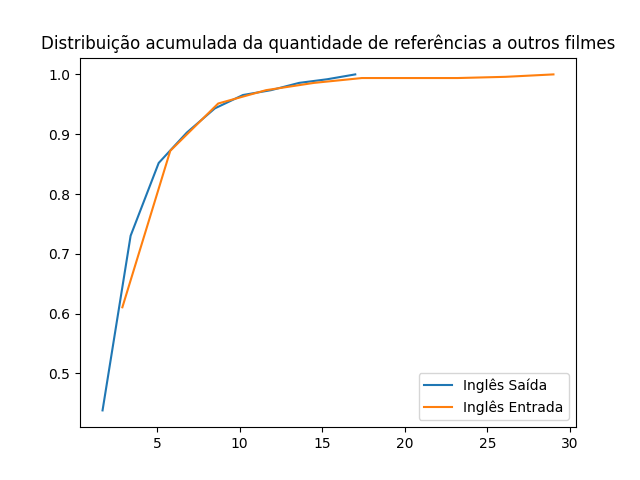
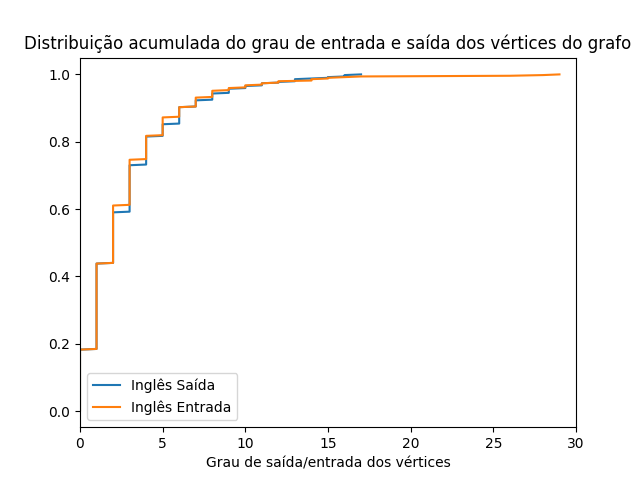
adicionei os gráficos cdf que estavam faltando

diff --git a/grafico_cdf.py b/grafico_cdf.py
@@ -10,54 +10,65 @@ data_in_es = [0, 5, 2, 2, 0, 9, 0, 2, 0, 3, 1, 3, 3, 4, 0, 4, 0, 4, 0, 3, 0, 3, 
 data_out_es = [1, 0, 1, 2, 1, 3, 1, 2, 1, 0, 2, 1, 2, 2, 1, 0, 1, 1, 1, 1, 2, 0, 0, 1, 0, 1, 1, 0, 3, 2, 1, 4, 1, 0, 1, 0, 3, 3, 4, 3, 1, 0, 4, 0, 0, 0, 4, 1, 1, 1, 0, 3, 2, 1, 1, 3, 2, 0, 1, 2, 0, 0, 1, 7, 2, 0, 1, 1, 1, 2, 0, 3, 3, 0, 6, 1, 0, 0, 5, 0, 0, 1, 0, 1, 3, 4, 0, 1, 1, 1, 0, 1, 3, 0, 2, 3, 2, 1, 1, 4, 0, 1, 5, 3, 2, 0, 0, 1, 0, 0, 1, 0, 1, 2, 2, 1, 2, 0, 1, 3, 1, 1, 2, 0, 1, 1, 4, 1, 0, 0, 1, 2, 2, 1, 2, 1, 1, 3, 1, 1, 3, 0, 1, 1, 2, 1, 2, 1, 3, 4, 1, 4, 1, 0, 2, 1, 3, 2, 0, 2, 0, 0, 1, 0, 1, 2, 0, 1, 1, 1, 2, 0, 1, 1, 2, 4, 0, 0, 2, 1, 1, 1, 0, 1, 2, 0, 1, 1, 1, 2, 0, 3, 1, 2, 2, 4, 6, 0, 0, 0, 0, 1, 0, 1, 1, 0, 1, 1, 5, 0, 3, 1, 2, 1, 3, 0, 1, 1, 2, 0, 2, 0, 1, 1, 1, 0, 1, 1, 1, 3, 0, 1, 0, 1, 0, 2, 1, 0, 3, 1, 0, 2, 0, 1, 0, 1, 1, 1, 1, 1, 3, 0, 2, 2, 2, 1, 2, 0, 1, 1, 1]
 
 plt.xlim(0, 30)
-"""count_en, bins_count_en = np.histogram(data_out_en, bins=10)
-pdf_en = count_en / sum(count_en)
+# """count_en, bins_count_en = np.histogram(data_out_en, bins=10)
+# pdf_en = count_en / sum(count_en)
 
-cdf_en = np.cumsum(pdf_en)
-plt.plot(bins_count_en[1:], cdf_en, label="Inglês Saída")
+# cdf_en = np.cumsum(pdf_en)
+# plt.plot(bins_count_en[1:], cdf_en, label="Inglês Saída")
 
-count_en, bins_count_en = np.histogram(data_in_en, bins=10)
-pdf_en = count_en / sum(count_en)
+# count_en, bins_count_en = np.histogram(data_in_en, bins=10)
+# pdf_en = count_en / sum(count_en)
 
-cdf_en = np.cumsum(pdf_en)
-plt.plot(bins_count_en[1:], cdf_en, label="Inglês Entrada")
+# cdf_en = np.cumsum(pdf_en)
+# plt.plot(bins_count_en[1:], cdf_en, label="Inglês Entrada")
 
-count_es, bins_count_es = np.histogram(data_out_es, bins=10)
-pdf_es = count_es / sum(count_es)
+# count_es, bins_count_es = np.histogram(data_out_es, bins=10)
+# pdf_es = count_es / sum(count_es)
 
-cdf_es = np.cumsum(pdf_es)
-plt.plot(bins_count_es[1:], cdf_es, label="Espanhol Saída")
+# cdf_es = np.cumsum(pdf_es)
+# plt.plot(bins_count_es[1:], cdf_es, label="Espanhol Saída")
 
-count_es, bins_count_es = np.histogram(data_in_es, bins=10)
-pdf_es = count_es / sum(count_es)
+# count_es, bins_count_es = np.histogram(data_in_es, bins=10)
+# pdf_es = count_es / sum(count_es)
 
-cdf_es = np.cumsum(pdf_es)
-plt.plot(bins_count_es[1:], cdf_es, label="Espanhol Entrada")
+# cdf_es = np.cumsum(pdf_es)
+# plt.plot(bins_count_es[1:], cdf_es, label="Espanhol Entrada")
 
-"""
-data_in_pt_a = np.array(data_in_pt)
-data_out_pt_a = np.array(data_out_pt)
-plt.xlim(0, 30)
-count_pt, bins_count_pt = np.histogram(data_out_pt_a, bins=10)
-pdf_pt = count_pt / sum(count_pt)
+# """
+# data_in_pt_a = np.array(data_in_pt)
+# data_out_pt_a = np.array(data_out_pt)
+# plt.xlim(0, 30)
+# count_pt, bins_count_pt = np.histogram(data_out_pt_a, bins=10)
+# pdf_pt = count_pt / sum(count_pt)
 
-cdf_pt = np.cumsum(pdf_pt)
-plt.plot(bins_count_pt[1:], cdf_pt, label="Português Saída")
+# cdf_pt = np.cumsum(pdf_pt)
+# plt.plot(bins_count_pt[1:], cdf_pt, label="Português Saída")
 
-count_pt, bins_count_pt = np.histogram(data_in_pt_a, bins=10)
-pdf_pt = count_pt / sum(count_pt)
+# count_pt, bins_count_pt = np.histogram(data_in_pt_a, bins=10)
+# pdf_pt = count_pt / sum(count_pt)
 
-cdf_pt = np.cumsum(pdf_pt)
-plt.plot(bins_count_pt[1:], cdf_pt, label="Português Entrada")
+# cdf_pt = np.cumsum(pdf_pt)
+# plt.plot(bins_count_pt[1:], cdf_pt, label="Português Entrada")
 
-# ecdf_en = ECDF(data_out_en)
-# ecdf_es = ECDF(data_out_es)
-# ecdf_pt = ECDF(data_out_pt)
+ecdf_en_out = ECDF(data_out_en)
+ecdf_es_out = ECDF(data_out_es)
+ecdf_pt_out = ECDF(data_out_pt)
+
+ecdf_en_in = ECDF(data_in_en)
+ecdf_es_in = ECDF(data_in_es)
+ecdf_pt_in = ECDF(data_in_pt)
 
 # descomentar a linha abaixo se for CCDF (complementary distribution) 
 
 # ecdf_en.y = [1 - x for x in ecdf_en.y]
-# plt.plot(ecdf_en.x, ecdf_en.y, label="Inglês")
+plt.plot(ecdf_en_out.x, ecdf_en_out.y, label="Inglês Saída")
+# plt.plot(ecdf_en_in.x, ecdf_en_in.y, label="Inglês Entrada")
+
+plt.plot(ecdf_es_out.x, ecdf_es_out.y, label="Espanhol Saída")
+# plt.plot(ecdf_es_in.x, ecdf_es_in.y, label="Espanhol Entrada")
+
+plt.plot(ecdf_pt_out.x, ecdf_pt_out.y, label="Português Saída")
+# plt.plot(ecdf_pt_in.x, ecdf_pt_in.y, label="Português Entrada")
 
 # ecdf_es.y = [1 - x for x in ecdf_es.y]
 # plt.plot(ecdf_es.x, ecdf_es.y, label="Espanhol")
@@ -65,23 +76,7 @@ plt.plot(bins_count_pt[1:], cdf_pt, label="Português Entrada")
 # ecdf_pt.y = [1 - x for x in ecdf_pt.y]
 # plt.plot(ecdf_pt.x, ecdf_pt.y, label="Português")
 
-plt.title("Distribuição acumulada da quantidade de referências a outros filmes")
+plt.xlabel("Grau de saída dos vértices")
+plt.title("Distribuição acumulada do grau de saída dos vértices do grafo")
 plt.legend()
 plt.show()
-
-# import numpy as np
-# from matplotlib import pyplot as plt
-
-# plt.rcParams["figure.figsize"] = [7.50, 3.50]
-# plt.rcParams["figure.autolayout"] = True
-
-# N = 500
-# data = np.random.randn(N)
-# print(type(data))
-# print(data)
-# count, bins_count = np.histogram(data, bins=10)
-# pdf = count / sum(count)
-# cdf = np.cumsum(pdf)
-# plt.plot(bins_count[1:], cdf, label="CDF")
-# plt.legend()
-# plt.show()

diff --git a/cdf2.py b/cdf2.py
@@ -1,0 +1,11 @@
+import matplotlib.pyplot as plt
+from statsmodels.distributions.empirical_distribution import ECDF
+
+data_in_pt = [0, 1, 1, 1, 3, 1, 2, 2, 1, 0, 1, 0, 1, 1, 4, 1, 2, 2, 1, 0, 1, 1, 2, 2, 0, 3, 0, 2, 0, 1, 0, 2, 0, 2, 4, 2, 7, 2, 1, 1, 2, 2, 2, 2, 1, 2, 0, 1, 2, 0, 3, 1, 1, 0, 16, 1, 5, 3, 1, 0, 1, 0, 2, 0, 4, 2, 3, 1, 4, 6, 1, 2, 2, 1, 5, 2, 1, 2, 0, 1, 2, 4, 1, 1, 1, 4, 0, 0, 0, 1, 1, 0, 2, 0, 2, 0, 1, 1, 3, 1, 1, 2, 0, 1, 1, 1, 0, 4, 1, 1, 1, 0, 1, 1, 3, 9, 0, 3, 0, 1, 1, 2, 1, 0, 1, 1, 1, 1, 0, 2, 0, 1, 1, 0, 3, 1, 1, 0, 0, 1, 1, 2, 0, 0, 1, 0, 1, 1, 1, 1, 2, 1, 2, 2, 1, 0, 2, 2, 0, 1, 4, 0, 3, 0, 0, 1, 1, 2, 0, 1, 1, 0, 2, 1, 0, 0, 1, 2, 0, 1, 2, 1, 0, 2, 0, 1, 2, 1, 4, 1, 0, 2, 1, 0, 1, 0, 2, 0, 1, 0, 0, 0, 1, 0, 1, 1, 3, 0, 1, 1, 2, 1, 1, 1, 0, 2, 1, 2, 1, 1, 0, 2, 2, 1, 0, 1, 0, 0, 0, 1, 0, 1, 0, 1, 0, 1, 1, 0, 1, 1, 0, 1, 0, 0, 0, 1, 0, 2, 0, 1, 0, 1, 1, 0, 1, 0, 1, 0, 1, 0, 1, 1]
+ecdf_pt = ECDF(data_in_pt)
+x = ecdf_pt.x
+y = ecdf_pt.y
+plt.plot(x,y)
+plt.xlabel("x")
+plt.ylabel("y")
+plt.show()
